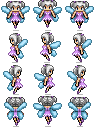
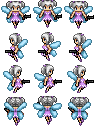
New Lives, New pixie

diff --git a/TTG-Game/TTG-Game/Game1.cs b/TTG-Game/TTG-Game/Game1.cs
@@ -63,7 +63,7 @@ namespace LinuxTesting
         private Texture2D LoadingScreen;
         private Texture2D FPSOnButton;
         private Texture2D FPSOffButton;
-        private Texture2D background3;
+        private Texture2D Background;
 
         // Sound allocations
         private SoundEffect bang;
@@ -76,11 +76,16 @@ namespace LinuxTesting
         // POS Allocation - Matthew
         private Vector2 StartButtonPOS;
         private Vector2 ResumeButtonPOS;
-        private Vector2 SpritePOS;
+        private Vector2 SpritePOS1;
+        private Vector2 SpritePOS2;
         private Vector2 ExitButtonPOS;
         private Vector2 LiveSpritePOS;
         private Vector2 LiveSprite2POS;
         private Vector2 LiveSprite3POS;
+        private Vector2 Live2SpritePOS;
+        private Vector2 Live2Sprite2POS;
+        private Vector2 Live2Sprite3POS;
+
 
         //Sprite Stuff - Matthew
         private const float SpriteWidth = 50f;
@@ -88,14 +93,19 @@ namespace LinuxTesting
         private float speed = 5f;
 
         //Pixie Sprite
-        private Texture2D Pixie;
+        private Texture2D Pixie1;
+        private Texture2D Pixie2;
 
         //Life stuff
         private int Lives = 0;
+        private int Lives2 = 0;
         private bool LeftArena = false;
         private Texture2D LivesSprite;
         private Texture2D LivesSprite2;
         private Texture2D LivesSprite3;
+        private Texture2D Lives2Sprite;
+        private Texture2D Lives2Sprite2;
+        private Texture2D Lives2Sprite3;
 
         // Window stuff - Matthew
 
@@ -108,6 +118,10 @@ namespace LinuxTesting
         Point frameSize = new Point(31, 31);
         Point currentFrame = new Point(0, 0);
         Point sheetSize = new Point(3, 3);
+
+        Point frameSize2 = new Point(34, 40);
+        Point currentFrame2 = new Point(0, 0);
+        Point sheetSize2 = new Point(3, 3);
 
         MouseState mouseState;
         MouseState previousMouseState;
@@ -178,10 +192,14 @@ namespace LinuxTesting
             LoadingScreen = Content.Load<Texture2D>("Images/loading");
 
             font = Content.Load<SpriteFont>("Font/SpriteFont1");
-            Pixie = Content.Load<Texture2D>("Images/sample_1");
+            Pixie1 = Content.Load<Texture2D>("Images/sample_1");
+            Pixie2 = Content.Load<Texture2D>("Images/sample_2");
             LivesSprite = Content.Load<Texture2D>("Images/life");
             LivesSprite2 = LivesSprite;
             LivesSprite3 = LivesSprite;
+            Lives2Sprite = Content.Load<Texture2D>("Images/life2");
+            Lives2Sprite2 = Lives2Sprite;
+            Lives2Sprite3 = Lives2Sprite;
 
             // Load content for the guns
             arm = new GameObject(Content.Load<Texture2D>("Images/gun"));
@@ -193,7 +211,7 @@ namespace LinuxTesting
             menumusicInstance = menumusic.CreateInstance();
 
 
-            background3 = Content.Load<Texture2D>("Images/background3");
+            Background = Content.Load<Texture2D>("Images/background");
         }
 
         /// <summary>
@@ -279,7 +297,7 @@ namespace LinuxTesting
             {
 
                 //Realistic Ball Control..nope. 
-
+                //PIXIE NO 1
                 if (state.IsKeyDown(Keys.D))
                 {
                     //Point currentFrame = new Point(2, 0);
@@ -289,7 +307,7 @@ namespace LinuxTesting
                     {
                         currentFrame.X = 0;
                     }
-                    SpritePOS.X += speed;
+                    SpritePOS1.X += speed;
                 }
 
                 if (state.IsKeyDown(Keys.A))
@@ -300,7 +318,7 @@ namespace LinuxTesting
                     {
                         currentFrame.X = 0;
                     }
-                    SpritePOS.X -= speed;
+                    SpritePOS1.X -= speed;
                 }
 
                 if (state.IsKeyDown(Keys.W))
@@ -311,7 +329,7 @@ namespace LinuxTesting
                     {
                         currentFrame.X = 0;
                     }
-                    SpritePOS.Y -= speed;
+                    SpritePOS1.Y -= speed;
 
                 }
                 if (state.IsKeyDown(Keys.S))
@@ -322,11 +340,9 @@ namespace LinuxTesting
                     {
                         currentFrame.X = 0;
                     }
-                    SpritePOS.Y += speed;
+                    SpritePOS1.Y += speed;
                 }
-
-                // Check if the ball is out of the arena and check the number of lives left and decrease them if necessary - Connor
-                if (SpritePOS.X > (GraphicsDevice.Viewport.Width - SpriteWidth - 40) || SpritePOS.X < 40 || SpritePOS.Y > (GraphicsDevice.Viewport.Height - SpriteHeight - 40) || SpritePOS.Y < 40)
+                if (SpritePOS1.X > (GraphicsDevice.Viewport.Width - SpriteWidth - 40) || SpritePOS1.X < 40 || SpritePOS1.Y > (GraphicsDevice.Viewport.Height - SpriteHeight - 40) || SpritePOS1.Y < 40)
                 {
                     LeftArena = true;
 
@@ -344,8 +360,90 @@ namespace LinuxTesting
                         {
                             Lives--;
                             lifelost.Play();
-                            
+
                             Console.WriteLine("You lost a life, you have " + Lives + " lives left");
+                            LeftArena = false;
+                        }
+
+                        if (LeftArena == false)
+                        {
+                            ResetGame();
+                        }
+                    }
+                }
+
+
+
+                //PIXIE NO 2
+                if (state.IsKeyDown(Keys.Right))
+                {
+                    //Point currentFrame = new Point(2, 0);
+                    currentFrame2.Y = 2;
+                    currentFrame2.X++;
+                    if (currentFrame2.X >= sheetSize2.X)
+                    {
+                        currentFrame2.X = 0;
+                    }
+                    SpritePOS2.X += speed;
+                }
+
+                if (state.IsKeyDown(Keys.Left))
+                {
+                    currentFrame2.Y = 1;
+                    currentFrame2.X++;
+                    if (currentFrame2.X >= sheetSize2.X)
+                    {
+                        currentFrame2.X = 0;
+                    }
+                    SpritePOS2.X -= speed;
+                }
+
+                if (state.IsKeyDown(Keys.Up))
+                {
+                    currentFrame2.Y = 3;
+                    currentFrame2.X++;
+                    if (currentFrame2.X >= sheetSize2.X)
+                    {
+                        currentFrame2.X = 0;
+                    }
+                    SpritePOS2.Y -= speed;
+                }
+
+                if (state.IsKeyDown(Keys.Down))
+                {
+                    currentFrame2.Y = 0;
+                    currentFrame2.X++;
+                    if (currentFrame2.X >= sheetSize2.X)
+                    {
+                        currentFrame2.X = 0;
+                    }
+                    SpritePOS2.Y += speed;
+                }
+
+
+
+
+                // Check if the ball is out of the arena and check the number of lives left and decrease them if necessary - Connor
+                if (SpritePOS2.X > (GraphicsDevice.Viewport.Width - SpriteWidth - 40) || SpritePOS2.X < 40 || SpritePOS2.Y > (GraphicsDevice.Viewport.Height - SpriteHeight - 40) || SpritePOS2.Y < 40)
+                {
+                    LeftArena = true;
+
+                    while (LeftArena)
+                    {
+                        if (Lives2 == 0)
+                        {
+                            lifelost.Play();
+                            Console.WriteLine("You have no lives left.");
+                            gameStates = GameStates.StartMenu;
+                            LeftArena = false;
+                            break;
+                        }
+                        else if ((Lives2 > 0) && (Lives2 <= 2))
+                        {
+                            Lives2--;
+                            lifelost.Play();
+                            
+                            Console.WriteLine("You lost a life, you have " + Lives2 + " lives left");
                             LeftArena = false;
                         }
 
@@ -397,7 +495,7 @@ namespace LinuxTesting
             //GraphicsDevice.Clear(Color.White);
             spriteBatch.Begin(SpriteSortMode.Deferred, BlendState.AlphaBlend);
             //Draw the background
-            spriteBatch.Draw(background3,new Rectangle(0, 0, Window.ClientBounds.Width,Window.ClientBounds.Height), null,Color.White, 0, Vector2.Zero,SpriteEffects.None, 0);
+            spriteBatch.Draw(Background,new Rectangle(0, 0, Window.ClientBounds.Width,Window.ClientBounds.Height), null,Color.White, 0, Vector2.Zero,SpriteEffects.None, 0);
             // Draw the menu - Matthew
            
             if (gameStates == GameStates.StartMenu)
@@ -420,8 +518,9 @@ namespace LinuxTesting
 
             if (gameStates == GameStates.Playing)
             {
-                spriteBatch.Draw(Pixie, SpritePOS, new Rectangle(currentFrame.X * frameSize.X, currentFrame.Y * frameSize.Y, frameSize.X, frameSize.Y), Color.White, 0, Vector2.Zero, 1, SpriteEffects.None, 0);
-                spriteBatch.Draw(PauseButton, new Vector2(0, 0), Color.White);
+                spriteBatch.Draw(Pixie1, SpritePOS1, new Rectangle(currentFrame.X * frameSize.X, currentFrame.Y * frameSize.Y, frameSize.X, frameSize.Y), Color.White, 0, Vector2.Zero, 1, SpriteEffects.None, 0);
+                spriteBatch.Draw(Pixie2, SpritePOS2, new Rectangle(currentFrame2.X * frameSize2.X, currentFrame2.Y * frameSize2.Y, frameSize2.X, frameSize2.Y), Color.White, 0, Vector2.Zero, 1, SpriteEffects.None, 0);
+                spriteBatch.Draw(PauseButton, new Vector2(15, 10), Color.White);
                 if (Lives == 2)
                 {
                     spriteBatch.Draw(LivesSprite, LiveSpritePOS, Color.White);
@@ -436,6 +535,20 @@ namespace LinuxTesting
                 else
                     spriteBatch.Draw(LivesSprite, LiveSpritePOS, Color.White);
 
+                if (Lives2 == 2)
+                {
+                    spriteBatch.Draw(Lives2Sprite, Live2SpritePOS, Color.White);
+                    spriteBatch.Draw(Lives2Sprite2, Live2Sprite2POS, Color.White);
+                    spriteBatch.Draw(Lives2Sprite3, Live2Sprite3POS, Color.White);
+                }
+                else if (Lives2 == 1)
+                {
+                    spriteBatch.Draw(Lives2Sprite, Live2SpritePOS, Color.White);
+                    spriteBatch.Draw(Lives2Sprite2, Live2Sprite2POS, Color.White);
+                }
+                else
+                    spriteBatch.Draw(Lives2Sprite, Live2SpritePOS, Color.White);
+
             }
             if (gameStates == GameStates.Paused)
             {
@@ -447,9 +560,12 @@ namespace LinuxTesting
                 spriteBatch.Draw(FPSOnButton, new Vector2(30, 30), Color.White);
             }
 
-            LiveSpritePOS = new Vector2((GraphicsDevice.Viewport.Width / 2) - -40, 0);
-            LiveSprite2POS = new Vector2((GraphicsDevice.Viewport.Width / 2) - 35, 0);
-            LiveSprite3POS = new Vector2((GraphicsDevice.Viewport.Width / 2) - 110, 0);
+            LiveSpritePOS = new Vector2((GraphicsDevice.Viewport.Width / 2) - 650, 0);
+            LiveSprite2POS = new Vector2((GraphicsDevice.Viewport.Width / 2) - 575, 0);
+            LiveSprite3POS = new Vector2((GraphicsDevice.Viewport.Width / 2) - 500, 0);
+            Live2SpritePOS = new Vector2((GraphicsDevice.Viewport.Width / 2) - -600, 0);
+            Live2Sprite2POS = new Vector2((GraphicsDevice.Viewport.Width / 2) - -525, 0);
+            Live2Sprite3POS = new Vector2((GraphicsDevice.Viewport.Width / 2) - -450, 0);
             //spriteBatch.Draw(Pixie, SpritePOS, new Rectangle(currentFrame.X * frameSize.X, currentFrame.Y * frameSize.Y, frameSize.X, frameSize.Y), Color.White, 0, Vector2.Zero, 1, SpriteEffects.None, 0);
             spriteBatch.End();
             base.Draw(gameTime);
@@ -464,13 +580,15 @@ namespace LinuxTesting
             PauseButton = Content.Load<Texture2D>("Images/123");
             ResumeButton = Content.Load<Texture2D>("Images/1234");
             ResumeButtonPOS = new Vector2((GraphicsDevice.Viewport.Width / 2) - (ResumeButton.Width / 2), (GraphicsDevice.Viewport.Height / 2) - (ResumeButton.Height / 2));
-            SpritePOS = new Vector2((GraphicsDevice.Viewport.Width / 2) - (SpriteWidth / 2), (GraphicsDevice.Viewport.Height / 2) - (SpriteHeight / 2));
+            SpritePOS1 = new Vector2((GraphicsDevice.Viewport.Width / 2) - (SpriteWidth / 2), (GraphicsDevice.Viewport.Height / 2) - (SpriteHeight / 2));
+            SpritePOS2 = new Vector2((GraphicsDevice.Viewport.Width / 2) - (SpriteWidth / 2), (GraphicsDevice.Viewport.Height / 2) - (SpriteHeight / 2));
             FPSOnButton = Content.Load<Texture2D>("Images/Orb");
 
             // Testing load screen don't leave this command in on launch - Matthew
             //Thread.Sleep(3000);
 
             Lives = 2;
+            Lives2 = 2;
 
             gameStates = GameStates.Playing;
             isLoading = false;
@@ -481,7 +599,8 @@ namespace LinuxTesting
         /// </summary>
         void ResetGame()
         {
-            SpritePOS = new Vector2((GraphicsDevice.Viewport.Width / 2) - (SpriteWidth / 2), (GraphicsDevice.Viewport.Height / 2) - (SpriteHeight / 2));
+            SpritePOS1 = new Vector2((GraphicsDevice.Viewport.Width / 2) - (SpriteWidth / 2), (GraphicsDevice.Viewport.Height / 2) - (SpriteHeight / 2));
+            SpritePOS2 = new Vector2((GraphicsDevice.Viewport.Width / 2) - (SpriteWidth / 2), (GraphicsDevice.Viewport.Height / 2) - (SpriteHeight / 2));
         }
         /// <summary>
         /// This variable is for recognising where the mouse is clicking
